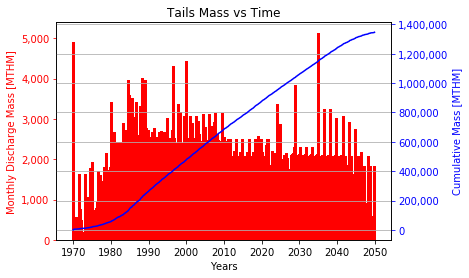
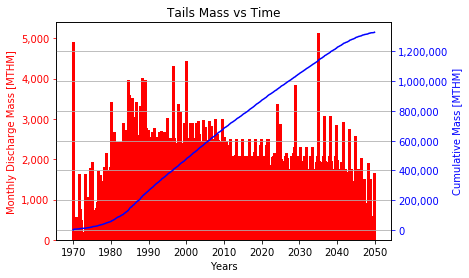
bulgaria only has phwrs

diff --git a/results.tex b/results.tex
@@ -41,17 +41,17 @@ distinguishes the
 			\hline
                         \textbf{Category} & \textbf{Value} & Specifics \\
                                           & \textbf{[MTHM]} & \\ \hline
-                        UOX Loaded  & 154,237 & UOX used in EU reactors 1970-2050\\ 
+                        UOX Loaded  & 152,271 & UOX used in EU reactors 1970-2050\\ 
 			MOX Loaded  & 6,463  & MOX used in French reactors 1970-2050\\
-                        Available used UOX (EU)  & 86,853  & Used EU (minus France) 
+                        Available used UOX (EU)  & 85,111  & Used EU (minus France) 
                                 UOX in storage for future ASTRID MOX 
                                 production\\
                         Available used UOX (France) & 
                                 12,582  & Used French UOX stored for 
                                 future ASTRID MOX production. \\
                                 Reprocessed UOX (France) & 51,511 & Used French UOX already reprocessed for the production of LWR MOX \\
-			Tails  & 1,347,339  & (Tails generated) $-$ (Tails used for production of LWR MOX) \\ 
-			Natural U Used  & 1,501,576  & \\ \hline
+			Tails  & 1,330,165  & (Tails generated) $-$ (Tails used for production of LWR MOX) \\ 
+			Natural U Used  & 1,482,436  & \\ \hline
 		\end{tabularx}
 		
 		\label{tab:sim_result1}
@@ -64,7 +64,7 @@ accumulation of tails and used fuel over time in the \gls{EU}.
 Tails accumulate as a by-product of uranium enrichment. 
 Spent fuel is discharged from reactors every refueling period.
 The entire core is discharged when the reactor decommissions.
-A total of about $1,350,000$ MTHM of tails and $86,000$ MTHM of
+A total of about $1,330,000$ MTHM of tails and $85,000$ MTHM of
 \gls{UNF} have accumulated by 2050.
 Figure \ref{fig:eu_fuel} shows the amount of fuel used in the \gls{EU}. The 
 tails mass accumulation rate is fairly steady, with peaks occurring when new 
@@ -104,7 +104,7 @@ nuclear phase-out, where all German reactors are decommissioned in 2022.}
 \FloatBarrier
 
 Reprocessing the \gls{UNF} collected from all EU nations can provide
-approximately 929 tons of plutonium. Table \ref{tab:pu} lists the 
+approximately 913 tons of plutonium. Table \ref{tab:pu} lists the 
 isotope, mass fraction, and quantity of plutonium that can be obtained from the 
 2050 \gls{UNF} inventory.  With the \gls{SFR} breeding ratio above one, France 
 can transition into a fully \gls{SFR} fleet without extra construction of 
@@ -116,12 +116,12 @@ can transition into a fully \gls{SFR} fleet without extra construction of
 	\begin{tabular}{lrr}
 		\hline
 		\textbf{Isotope} & \textbf{Mass Fraction in Used Fuel [\%]} & \textbf{Quantity [t]} \\ \hline
-		Pu238 & 0.0111 & 9.94 \\ 
-		Pu239 & 0.518 & 515.07 \\ 
-		Pu240 & 0.232 & 230.69 \\ 
-		Pu241 & 0.126 & 125.28 \\ 
-		Pu242 & 0.0487 & 48.42 \\ \hline
-		\textbf{Total} & \textbf{0.9358} & \textbf{929.42} \\ \hline
+		Pu238 & 0.0111 & 9.76 \\ 
+		Pu239 & 0.518 & 506.05 \\ 
+		Pu240 & 0.232 & 226.64 \\ 
+		Pu241 & 0.126 & 123.09 \\ 
+		Pu242 & 0.0487 & 47.57 \\ \hline
+		\textbf{Total} & \textbf{0.9358} & \textbf{913.14} \\ \hline
 	\end{tabular}
 	
 	\label{tab:pu}

diff --git a/conclusion.tex b/conclusion.tex
@@ -35,7 +35,7 @@ Sweden and Finland are not considered because of their concrete waste management
 
 If France receives \gls{LWR} \gls{UNF} from all \gls{EU} nations,
 except Sweden and Finland,
-it will have a surplus of $23,069$ MTHM of \gls{LWR} \gls{UNF}. This
+it will have a surplus of $20,599$ MTHM of \gls{LWR} \gls{UNF}. This
 inventory can be leveraged to increase nuclear power capacity as
 the transition takes place. However, pragmatic limitations such
 as new reactor construction, reprocessing throughput, and
